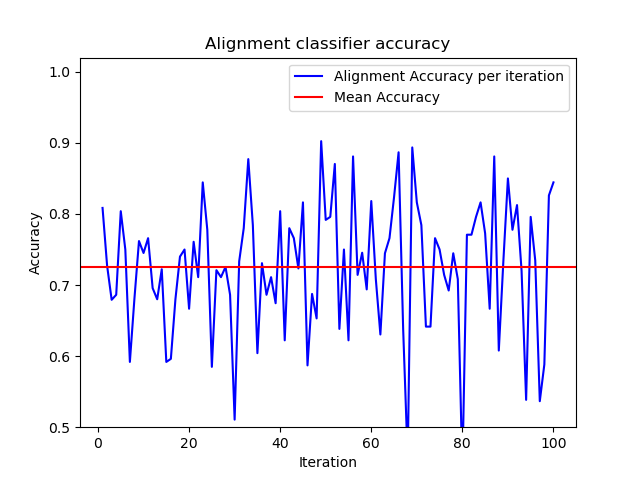
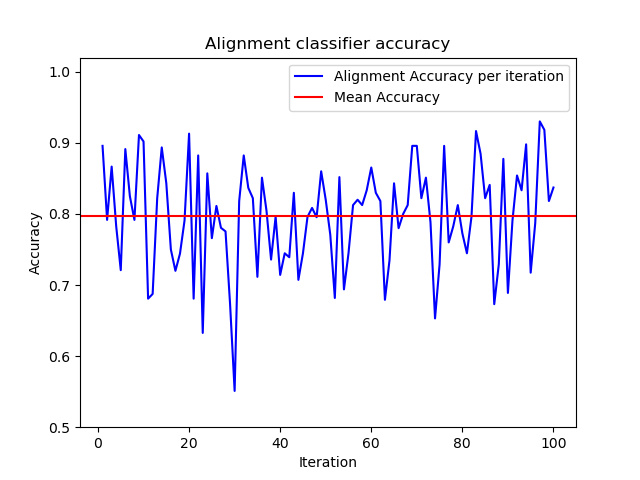
Added pictures from latest test

Changed region(s): [[0.125, 0.25, 0.9062, 0.9062]]

diff --git a/Main.py b/Main.py
@@ -86,28 +86,28 @@ subSeqList = DTWHelpers.reshapeTo45(subSeqList)
 # plt.legend()
 # plt.show()
 
-finalFirst, finalLast = DTWHelpers.findSteps(subSeqList[63][11][:])
-finalFirstY = []
-finalLastY = []
-for x in finalFirst:
-    finalFirstY = subSeqList[63][11][x]
-for x in finalLast:
-    finalLastY = subSeqList[63][11][x]
-fig = plt.figure()
-ax = plt.axes()
-ax.plot(subSeqList[63][11][:],c="b", label="Walk")
-for i, x in enumerate(finalFirst):
-    if i == 0:
-        ax.axvline(x, c="g", label='Start of step')
-    else:
-        ax.axvline(x, c="g")
-for i, x in enumerate(finalLast):
-    if i == 0:
-        ax.axvline(x, c="r", label='End of step')
-    else:
-        ax.axvline(x, c="r")
-plt.legend(loc='upper right')
-plt.show()
+# finalFirst, finalLast = DTWHelpers.findSteps(subSeqList[63][11][:])
+# finalFirstY = []
+# finalLastY = []
+# for x in finalFirst:
+#     finalFirstY = subSeqList[63][11][x]
+# for x in finalLast:
+#     finalLastY = subSeqList[63][11][x]
+# fig = plt.figure()
+# ax = plt.axes()
+# ax.plot(subSeqList[63][11][:],c="b", label="Walk")
+# for i, x in enumerate(finalFirst):
+#     if i == 0:
+#         ax.axvline(x, c="g", label='Start of step')
+#     else:
+#         ax.axvline(x, c="g")
+# for i, x in enumerate(finalLast):
+#     if i == 0:
+#         ax.axvline(x, c="r", label='End of step')
+#     else:
+#         ax.axvline(x, c="r")
+# plt.legend(loc='upper right')
+# plt.show()
 
 angle_accuracy = []
 angle_runtime = []
@@ -197,7 +197,7 @@ for u in range (1,iterations+1):
             for x in np.where(labelsTrain[:,0]==i+1)[0].tolist():
                 steps.append(seqsTrain[x])
             # Find the steps in each sequence and align them to the reference graph
-            steps, lengthList = DTWHelpers.multiDTW(steps,11, refSeq)
+            steps, lengthList = DTWHelpers.multiDTW(steps,11, refSeq, False)
             # Put the lengths of all steps into a list
             Lengths.extend(lengthList)
             # Create a list containing the id of each action and how many steps belong to that action ([5,41],[9,156] with running and walking for example)

diff --git a/DTWHelpers.py b/DTWHelpers.py
@@ -246,9 +246,10 @@ def multiDTW(seqs, id, refSeq, test=True):
         stepSeqs[i][1] = smoothSeq(stepSeqs[i][1][:,res.get_warping_path(target="query")], res.get_warping_path(target="query"))
 
         # Align to adjoint reference graphs
-        res = dtwalign(stepSeqs[i][1][id,:], adjoint_reference,step_pattern="typeIVc")
-        # Get the warping path and perform smoothing on this
-        stepSeqs[i][1] = smoothSeq(stepSeqs[i][1][:,res.get_warping_path(target="query")], res.get_warping_path(target="query"))
+        if not test:
+            res = dtwalign(stepSeqs[i][1][id,:], adjoint_reference,step_pattern="typeIVc")
+            # Get the warping path and perform smoothing on this
+            stepSeqs[i][1] = smoothSeq(stepSeqs[i][1][:,res.get_warping_path(target="query")], res.get_warping_path(target="query"))
     return np.array(stepSeqs)[:,1], lengthList
 
 # Reshape given Sequence list from [number of frames * 3, 15] to [45, number of frames]
